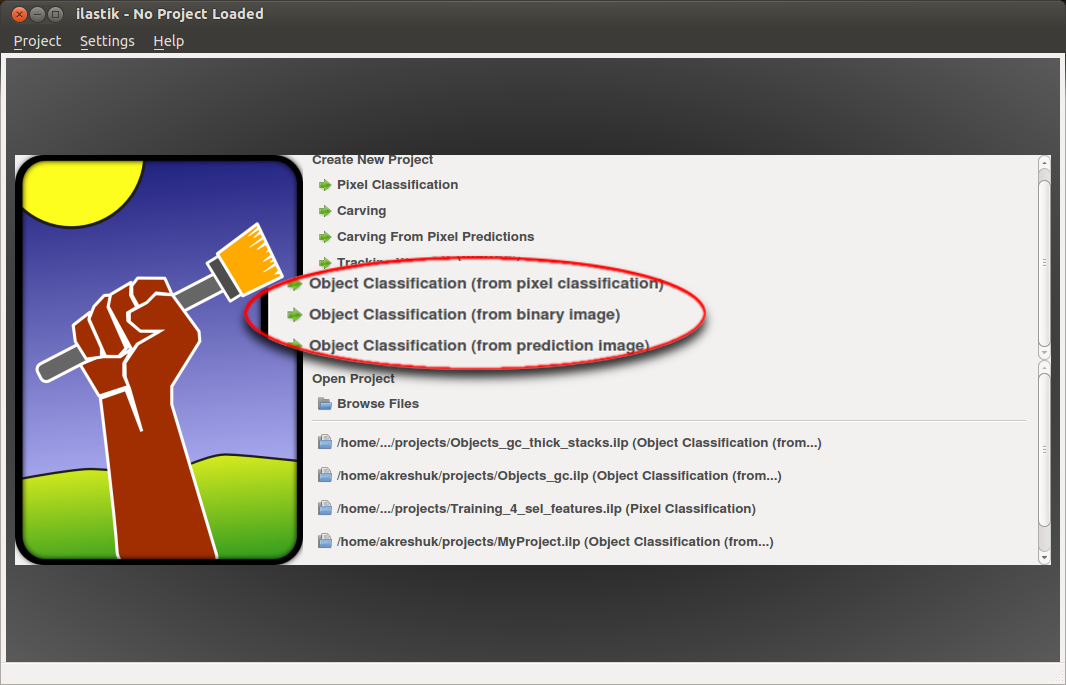
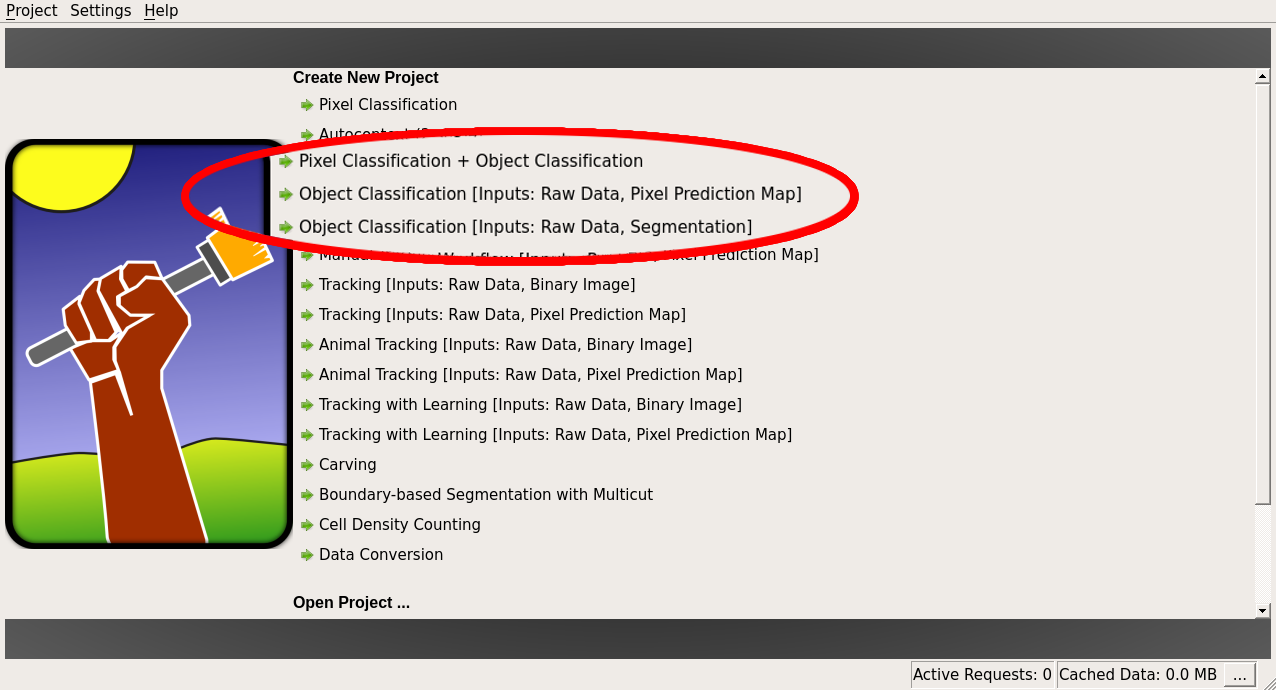
Updated workflow names
Updated the object classification workflow names to the ones actually
used in the gui.
Also updated the ilastik startup screenshot.

diff --git a/documentation/objects/objects.md b/documentation/objects/objects.md
@@ -20,9 +20,9 @@ An *object* in this context is a set of pixels that belong to the same instance.
 In order to do so, the workflow needs *segmentation* images besides the usual raw image data, that can e.g. be generated with the [Pixel Classification Workflow].
 Depending on the availability of these segmentation images, the user can choose between three flavors of object classification workflow, which differ by their input data:
 
-* Object Classification (from pixel classification)
-* Object Classification (from prediction image)
-* Object Classification (from binary image)
+* Pixel Classification + Object Classification
+* Object Classification [Inputs: Raw Data, Pixel Prediction Map]
+* Object Classification [Inputs: Raw Data, Segmentation]
 
 **Size Limitations:**
 
@@ -33,24 +33,24 @@ feature to run object classification on much larger images (prediction only -- n
 
 <a href="figs/ilastik_start_screen.png" data-toggle="lightbox"><img src="figs/ilastik_start_screen.png" class="img-responsive" /></a>
 
-### Object Classification (from pixel classification)
+### Pixel Classification + Object Classification
 This is a combined workflow, which lets you start from the raw data, perform pixel classification as described 
-in
-[Pixel Classification workflow]({{site.baseurl}}/documentation/pixelclassification/pixelclassification.html)
-and then thresholding the probability maps to obtain a segmentation. 
+in the
+[Pixel Classification workflow docs]({{site.baseurl}}/documentation/pixelclassification/pixelclassification.html)
+and then thresholding the probability maps to obtain a segmentation that you then use in Object Classification.
 This workflow is primarily meant for demo purposes.
 For serious projects, we recommend to use the two workflows, [Pixel Classification]({{site.baseurl}}/documentation/pixelclassification/pixelclassification.html) and Object Classification separately using the generated output form the former as an additional input in the latter one.
 
 <a href="figs/input_pixel_class.png" data-toggle="lightbox"><img src="figs/input_pixel_class.png" class="img-responsive" /></a>
 
-### Object Classification (from prediction image)
+### Object Classification [Inputs: Raw Data, Pixel Prediction Map]
 You should choose this workflow if you have pre-computed probability
 maps.
 The data input applet of this workflow expects you to load the probability maps in addition to the raw data:
 
 <a href="figs/input_prediction_image.png" data-toggle="lightbox"><img src="figs/input_prediction_image.png" class="img-responsive" /></a>
 
-### Object Classification (from binary image)
+### Object Classification [Inputs: Raw Data, Segmentation]
 This workflow should be used if you already have a binary segmentation image. 
 The image should be loaded in the data input applet:
 
@@ -245,7 +245,7 @@ The following example illustrates the process.
 <a href="figs/block_oc_pred.png" data-toggle="lightbox"><img src="figs/block_oc_pred.png" class="img-responsive" /></a>
 In the upper right corner, an object is shown for which the blockwise object classification clearly failed. This object, however, will be predicted correctly if we choose a more reasonable block and halo size. Supposing we found such sizes, let us proceed to batch prediction itself
 
-## Large-scale prediction - Batch Prediction applets
+## Large-scale prediction - Batch Prediction applet
 These two applets have the same interface and parameters as batch prediction in
 [Pixel Classification workflow][].
 The only difference is that you started the object classification workflow from binary images or prediction images, you'll have to provide them here as well:
